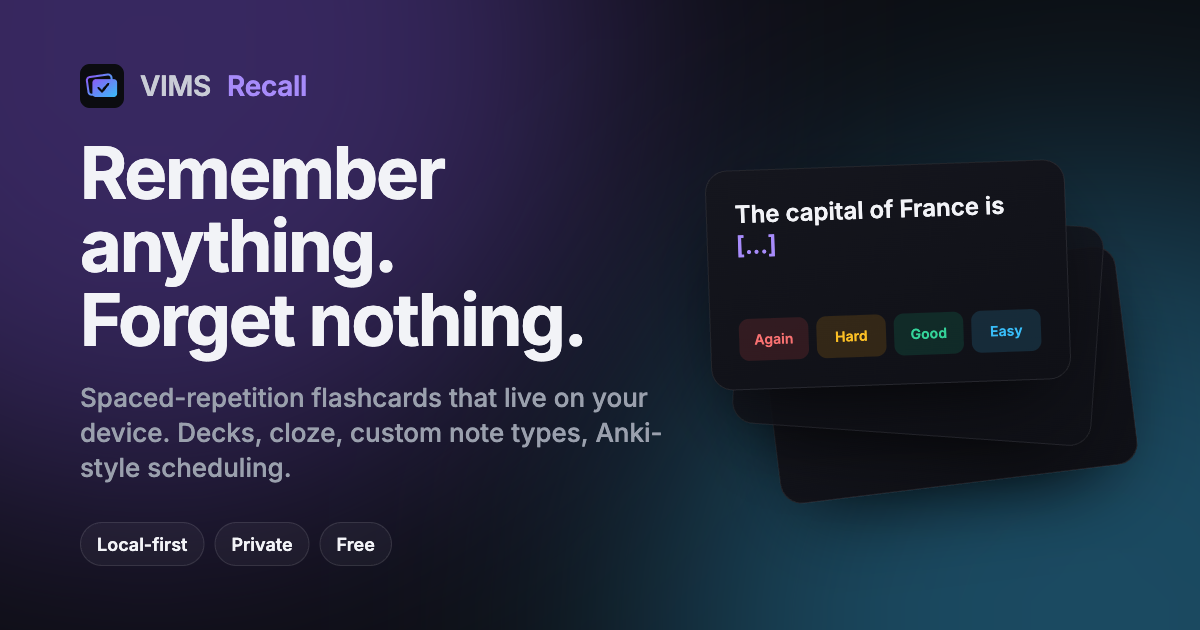
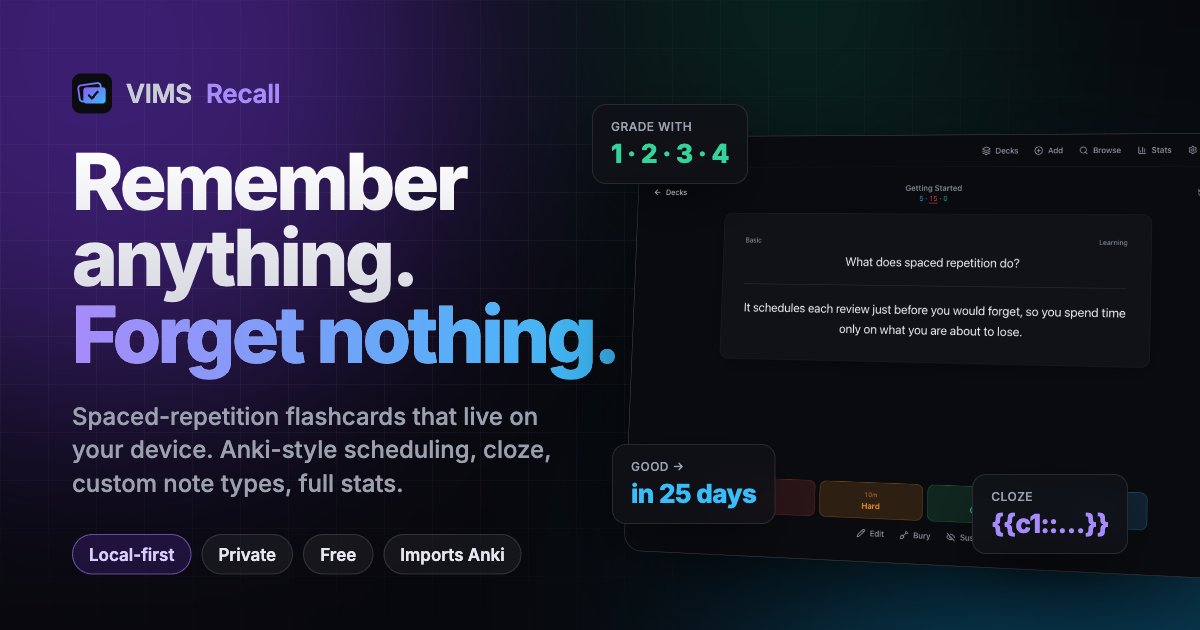
Deploy to GitHub Pages under /vims-recall/; new social thumbnail
Generated with [Devin](https://devin.ai)

diff --git a/scripts/og.html b/scripts/og.html
@@ -2,52 +2,53 @@
 <html>
   <head>
     <meta charset="utf-8" />
-    <link href="https://fonts.googleapis.com/css2?family=Inter:wght@500;600;700&display=swap" rel="stylesheet" />
+    <link href="https://fonts.googleapis.com/css2?family=Inter:wght@500;600;800&display=swap" rel="stylesheet" />
     <style>
       * { box-sizing: border-box; margin: 0; }
-      body { width: 1200px; height: 630px; background: #0b0c10; font-family: Inter, system-ui, sans-serif; color: #f2f3f7; overflow: hidden; position: relative; }
-      .glow { position: absolute; width: 900px; height: 900px; border-radius: 50%; filter: blur(140px); opacity: 0.35; }
-      .g1 { background: #8b5cf6; left: -300px; top: -400px; }
-      .g2 { background: #38bdf8; right: -350px; bottom: -450px; }
-      .wrap { position: relative; display: flex; height: 100%; padding: 72px 80px; align-items: center; justify-content: space-between; }
-      .brand { display: flex; align-items: center; gap: 16px; font-weight: 600; font-size: 28px; letter-spacing: -0.01em; color: #c9ccd6; }
+      body { width: 1200px; height: 630px; background: #07080c; font-family: Inter, system-ui, sans-serif; color: #f2f3f7; overflow: hidden; position: relative; }
+      .grid { position: absolute; inset: 0; background-image: linear-gradient(rgba(255,255,255,0.035) 1px, transparent 1px), linear-gradient(90deg, rgba(255,255,255,0.035) 1px, transparent 1px); background-size: 48px 48px; mask-image: radial-gradient(ellipse at 30% 40%, #000 30%, transparent 75%); }
+      .glow { position: absolute; border-radius: 50%; filter: blur(120px); }
+      .g1 { width: 700px; height: 700px; background: #7c3aed; opacity: 0.45; left: -250px; top: -300px; }
+      .g2 { width: 700px; height: 700px; background: #0ea5e9; opacity: 0.35; right: -250px; bottom: -350px; }
+      .g3 { width: 400px; height: 400px; background: #10b981; opacity: 0.18; right: 200px; top: -200px; }
+      .wrap { position: relative; height: 100%; padding: 64px 72px; display: grid; grid-template-columns: 560px 1fr; align-items: center; }
+      .brand { display: flex; align-items: center; gap: 14px; font-weight: 600; font-size: 26px; color: #c9ccd6; letter-spacing: -0.01em; }
       .brand span { color: #a78bfa; }
-      h1 { font-size: 72px; line-height: 1.02; letter-spacing: -0.03em; font-weight: 700; margin-top: 28px; max-width: 640px; }
-      p { font-size: 26px; color: #9aa0ad; margin-top: 24px; max-width: 600px; line-height: 1.35; }
-      .pills { display: flex; gap: 10px; margin-top: 36px; }
-      .pill { font-size: 18px; font-weight: 600; padding: 10px 16px; border-radius: 999px; border: 1px solid rgba(255,255,255,0.1); background: rgba(255,255,255,0.04); }
-      .cards { position: relative; width: 420px; height: 420px; }
-      .card { position: absolute; width: 360px; height: 220px; border-radius: 22px; background: linear-gradient(160deg, #15161e, #0f1016); border: 1px solid rgba(255,255,255,0.08); box-shadow: 0 30px 80px -30px rgba(0,0,0,0.9); padding: 28px; display: flex; flex-direction: column; justify-content: space-between; }
-      .c1 { left: 60px; top: 160px; transform: rotate(-7deg); }
-      .c2 { left: 30px; top: 110px; transform: rotate(4deg); opacity: 0.9; }
-      .c3 { left: 0px; top: 60px; transform: rotate(-2deg); }
-      .q { font-size: 24px; font-weight: 600; line-height: 1.3; }
-      .cloze { color: #a78bfa; }
-      .btns { display: flex; gap: 8px; }
-      .b { flex: 1; height: 42px; border-radius: 10px; display: flex; align-items: center; justify-content: center; font-size: 14px; font-weight: 600; }
-      .again { background: rgba(236,72,72,0.15); color: #f87171; } .hard { background: rgba(245,158,11,0.15); color: #fbbf24; } .good { background: rgba(16,185,129,0.15); color: #34d399; } .easy { background: rgba(56,189,248,0.15); color: #38bdf8; }
+      h1 { font-size: 78px; line-height: 0.98; letter-spacing: -0.04em; font-weight: 800; margin-top: 30px; background: linear-gradient(180deg, #ffffff 0%, #c7c9d4 100%); -webkit-background-clip: text; background-clip: text; color: transparent; }
+      h1 em { font-style: normal; background: linear-gradient(90deg, #a78bfa, #38bdf8); -webkit-background-clip: text; background-clip: text; color: transparent; }
+      p { font-size: 24px; color: #9aa0ad; margin-top: 26px; max-width: 520px; line-height: 1.4; }
+      .pills { display: flex; gap: 10px; margin-top: 34px; }
+      .pill { font-size: 17px; font-weight: 600; padding: 9px 16px; border-radius: 999px; border: 1px solid rgba(255,255,255,0.12); background: rgba(255,255,255,0.05); color: #e5e7ee; }
+      .pill.hl { border-color: rgba(167,139,250,0.5); background: rgba(124,58,237,0.18); color: #d9ccff; }
+      .scene { position: relative; height: 520px; perspective: 1400px; }
+      .shot { position: absolute; width: 600px; left: 0px; top: 70px; border-radius: 18px; overflow: hidden; border: 1px solid rgba(255,255,255,0.12); box-shadow: 0 50px 120px -30px rgba(0,0,0,0.9), 0 0 0 1px rgba(255,255,255,0.04) inset; transform: rotateY(-10deg) rotateX(4deg) rotateZ(1deg); transform-origin: left center; background: #0b0c10; }
+      .shot img { display: block; width: 100%; }
+      .chip { position: absolute; padding: 14px 18px; border-radius: 14px; backdrop-filter: blur(16px); background: rgba(15,16,22,0.85); border: 1px solid rgba(255,255,255,0.1); box-shadow: 0 20px 60px -20px rgba(0,0,0,0.9); font-weight: 600; }
+      .chip small { display: block; font-size: 12px; color: #9aa0ad; font-weight: 500; letter-spacing: 0.04em; text-transform: uppercase; margin-bottom: 4px; }
+      .chip b { font-size: 26px; letter-spacing: -0.02em; }
+      .c-a { left: -40px; top: 40px; } .c-a b { color: #34d399; }
+      .c-b { left: -20px; bottom: 60px; } .c-b b { color: #38bdf8; }
+      .c-c { right: 0px; bottom: 30px; } .c-c b { color: #a78bfa; }
     </style>
   </head>
   <body>
-    <div class="glow g1"></div>
-    <div class="glow g2"></div>
+    <div class="glow g1"></div><div class="glow g2"></div><div class="glow g3"></div>
+    <div class="grid"></div>
     <div class="wrap">
       <div>
         <div class="brand">
-          <svg width="44" height="44" viewBox="0 0 128 128"><defs><linearGradient id="g" x1="0" y1="0" x2="1" y2="1"><stop offset="0" stop-color="#8b5cf6"/><stop offset="1" stop-color="#38bdf8"/></linearGradient></defs><rect width="128" height="128" rx="28" fill="#0b0c10"/><rect x="22" y="34" width="72" height="52" rx="10" fill="none" stroke="url(#g)" stroke-width="6" transform="rotate(-8 58 60)"/><rect x="36" y="44" width="72" height="52" rx="10" fill="url(#g)"/><path d="M54 70l10 10 18-22" fill="none" stroke="#0b0c10" stroke-width="7" stroke-linecap="round" stroke-linejoin="round"/></svg>
+          <svg width="40" height="40" viewBox="0 0 128 128"><defs><linearGradient id="g" x1="0" y1="0" x2="1" y2="1"><stop offset="0" stop-color="#8b5cf6"/><stop offset="1" stop-color="#38bdf8"/></linearGradient></defs><rect width="128" height="128" rx="28" fill="#0b0c10"/><rect x="22" y="34" width="72" height="52" rx="10" fill="none" stroke="url(#g)" stroke-width="6" transform="rotate(-8 58 60)"/><rect x="36" y="44" width="72" height="52" rx="10" fill="url(#g)"/><path d="M54 70l10 10 18-22" fill="none" stroke="#0b0c10" stroke-width="7" stroke-linecap="round" stroke-linejoin="round"/></svg>
           VIMS <span>Recall</span>
         </div>
-        <h1>Remember anything.<br/>Forget nothing.</h1>
-        <p>Spaced-repetition flashcards that live on your device. Decks, cloze, custom note types, Anki-style scheduling.</p>
-        <div class="pills"><div class="pill">Local-first</div><div class="pill">Private</div><div class="pill">Free</div></div>
+        <h1>Remember<br/>anything.<br/><em>Forget nothing.</em></h1>
+        <p>Spaced-repetition flashcards that live on your device. Anki-style scheduling, cloze, custom note types, full stats.</p>
+        <div class="pills"><div class="pill hl">Local-first</div><div class="pill">Private</div><div class="pill">Free</div><div class="pill">Imports Anki</div></div>
       </div>
-      <div class="cards">
-        <div class="card c1"></div>
-        <div class="card c2"></div>
-        <div class="card c3">
-          <div class="q">The capital of France is <span class="cloze">[...]</span></div>
-          <div class="btns"><div class="b again">Again</div><div class="b hard">Hard</div><div class="b good">Good</div><div class="b easy">Easy</div></div>
-        </div>
+      <div class="scene">
+        <div class="shot"><img src="shot.png" alt="" /></div>
+        <div class="chip c-a"><small>Grade with</small><b>1 · 2 · 3 · 4</b></div>
+        <div class="chip c-b"><small>Good →</small><b>in 25 days</b></div>
+        <div class="chip c-c"><small>Cloze</small><b>{{c1::…}}</b></div>
       </div>
     </div>
   </body>

diff --git a/vite.config.ts b/vite.config.ts
@@ -3,24 +3,29 @@ import react from "@vitejs/plugin-react";
 import { VitePWA } from "vite-plugin-pwa";
 import tsconfigPaths from "vite-tsconfig-paths";
 
+/** Served from https://aeventures.github.io/vims-recall/ ; override with VITE_BASE=/ for a root domain. */
+const base = process.env.VITE_BASE ?? "/vims-recall/";
+
 export default defineConfig({
+  base,
   plugins: [
     react(),
     tsconfigPaths(),
     VitePWA({
       registerType: "autoUpdate",
-      workbox: { globPatterns: ["**/*.{js,css,html,ico,png,svg,woff2}"] },
+      workbox: { globPatterns: ["**/*.{js,css,html,ico,png,svg,woff2,wasm}"], maximumFileSizeToCacheInBytes: 4 * 1024 * 1024, navigateFallback: `${base}index.html` },
       includeAssets: ["og.png", "icon.svg"],
       manifestFilename: "manifest.json",
       manifest: {
         name: "VIMS Recall",
         short_name: "Recall",
         description: "Spaced-repetition flashcards. Local-first, private, fast.",
-        start_url: "/",
+        start_url: base,
+        scope: base,
         display: "standalone",
         background_color: "#0b0c10",
         theme_color: "#0b0c10",
-        icons: [{ src: "/icon.svg", sizes: "any", type: "image/svg+xml", purpose: "any" }]
+        icons: [{ src: `${base}icon.svg`, sizes: "any", type: "image/svg+xml", purpose: "any" }]
       }
     })
   ],

diff --git a/index.html b/index.html
@@ -10,14 +10,14 @@
     <meta property="og:type" content="website" />
     <meta property="og:title" content="VIMS Recall — Spaced-repetition flashcards" />
     <meta property="og:description" content="Remember anything. Local-first spaced repetition with decks, cloze, and Anki-style scheduling." />
-    <meta property="og:url" content="https://recall.vims.com/" />
-    <meta property="og:image" content="https://recall.vims.com/og.png" />
+    <meta property="og:url" content="https://aeventures.github.io/vims-recall/" />
+    <meta property="og:image" content="https://aeventures.github.io/vims-recall/og.png" />
     <meta property="og:image:width" content="1200" />
     <meta property="og:image:height" content="630" />
     <meta name="twitter:card" content="summary_large_image" />
     <meta name="twitter:title" content="VIMS Recall — Spaced-repetition flashcards" />
     <meta name="twitter:description" content="Remember anything. Local-first spaced repetition with decks, cloze, and Anki-style scheduling." />
-    <meta name="twitter:image" content="https://recall.vims.com/og.png" />
+    <meta name="twitter:image" content="https://aeventures.github.io/vims-recall/og.png" />
   </head>
   <body>
     <div id="root"></div>

diff --git a/src/components/layout/AppShell.tsx b/src/components/layout/AppShell.tsx
@@ -18,7 +18,7 @@ export const AppShell = (): JSX.Element => {
       <header className="sticky top-0 z-40 border-b border-white/5 bg-background/80 backdrop-blur-xl">
         <div className="mx-auto flex h-14 max-w-6xl items-center justify-between px-4">
           <NavLink to="/" className="flex items-center gap-2 font-semibold tracking-tight">
-            <img src="/icon.svg" alt="" className="h-7 w-7" />
+            <img src={`${import.meta.env.BASE_URL}icon.svg`} alt="" className="h-7 w-7" />
             <span>
               VIMS <span className="text-primary">Recall</span>
             </span>

diff --git a/src/App.tsx b/src/App.tsx
@@ -19,7 +19,8 @@ const Fallback = (): JSX.Element => (
 
 const page = (el: JSX.Element): JSX.Element => <Suspense fallback={<Fallback />}>{el}</Suspense>;
 
-const router = createBrowserRouter([
+const router = createBrowserRouter(
+  [
   {
     path: "/",
     element: <AppShell />,
@@ -33,7 +34,9 @@ const router = createBrowserRouter([
       { path: "notetypes", element: page(<NoteTypesPage />) }
     ]
   }
-]);
+  ],
+  { basename: import.meta.env.BASE_URL.replace(/\/$/, "") }
+);
 
 export const App = (): JSX.Element => {
   const { ready, error } = useBootstrap();

diff --git a/README.md b/README.md
@@ -1,0 +1,40 @@
+![VIMS Recall](public/og.png)
+
+# VIMS Recall
+
+**Live:** https://aeventures.github.io/vims-recall/
+
+Local-first spaced-repetition flashcards — our own take on Anki. Everything lives in the browser (IndexedDB); nothing leaves the device.
+
+## Run
+
+```bash
+pnpm install
+pnpm dev          # http://localhost:5173
+pnpm test         # vitest (scheduler, templates, collection, import/export, apkg)
+pnpm typecheck
+pnpm build        # production PWA in dist/
+```
+
+## What's in V1
+
+- Decks with `Parent::Child` nesting, per-deck option presets (daily limits, learning/relearning steps, ease, intervals, lapses, leech handling, bury siblings).
+- Note types: Basic, Basic + reversed, Cloze, and a full editor for fields, card templates and CSS. Template syntax: `{{Field}}`, `{{cloze:Field}}`, `{{hint:Field}}`, `{{text:Field}}`, `{{#Field}}…{{/Field}}`, `{{^Field}}…{{/Field}}`, `{{FrontSide}}`, `{{Tags}}`, `{{Deck}}`, `{{Card}}`.
+- Anki-style SM-2 scheduler (`src/domain/scheduler.ts`): learning steps, graduating/easy intervals, ease factor with 130% floor, hard/good/easy interval formulas with overdue bonus, interval fuzz, max interval, relearning, leech detection, learn-ahead window, 4am day rollover.
+- Study screen: Again/Hard/Good/Easy with interval previews, undo, bury, suspend, inline edit. Keys: `space`/`enter` show/Good, `1-4` grade, `z` undo, `e` edit, `-` bury, `!` suspend, `o` options.
+- Browser with Anki search syntax: `deck:` `tag:` `note:` `card:` `is:new|learn|review|due|suspended|buried` `flag:` `prop:ivl>30` `added:7` `-term` `"phrase"`. Bulk suspend / forget / set due / move / delete.
+- Stats: today, streak, 30-day forecast, 30-day history, card counts, true retention, ease histogram.
+- Import: Anki `.apkg` (export from Anki with “Support older Anki versions”), tab/CSV text. Export: full JSON backup (merge or replace restore), deck → text.
+
+## Layout
+
+```
+src/domain   pure logic: types (Zod), scheduler, templates/cloze, stats, time
+src/data     Dexie database, Collection service, search, import/export, apkg
+src/pages    Decks, Study, Add, Browse, Stats, Settings, NoteTypes
+src/components UI primitives (shadcn-style), CardRenderer, editors, dialogs
+```
+
+## Not yet
+
+Sync/accounts, FSRS, filtered decks, type-in-answer, media upload UI (renderer already resolves stored media), Electron shell.
